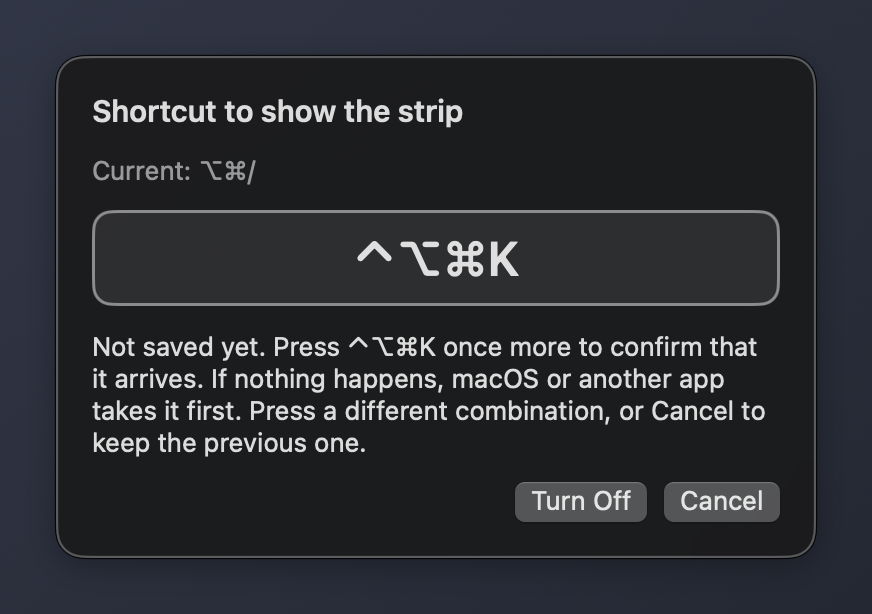
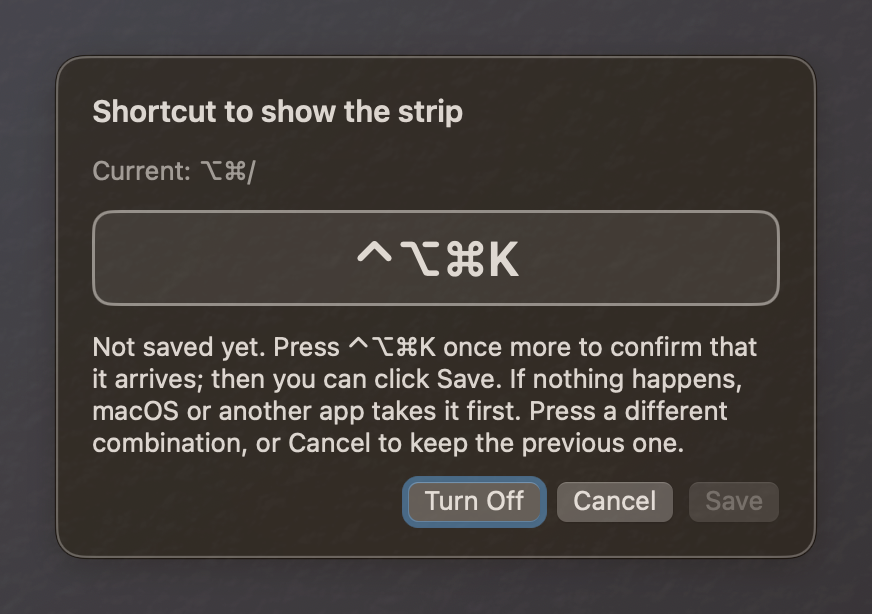
ショートカットの窓に「保存」を足し、メニューバーの項目が隠されているときに設定への案内を出す
届くことを確かめた後に「保存」を押して確定する。確かめている間は、修飾キーだけを押しても表示を書き換えない。

diff --git a/Sources/Hachibu/ShortcutRecorder.swift b/Sources/Hachibu/ShortcutRecorder.swift
@@ -5,7 +5,7 @@ import SwiftUI
 /// 「ショートカットを変更…」で開く小さな窓。押している修飾キーをその場で表示し、キーを押した瞬間に登録を試す。
 ///
 /// 登録できても押したときに届くとは限らない（macOSのショートカットはシステムが先に受け取る）。そのため
-/// macOSに割り当て済みの組み合わせは登録の前に弾き、登録後はもう一度押してもらって、届いたときに初めて保存する。
+/// macOSに割り当て済みの組み合わせは登録の前に弾き、登録後はもう一度押してもらって、届いたら「保存」を押せるようにする。
 /// 状態の判断はShortcutRecordingが持つ。この窓はキー入力を渡し、結果を表示するだけにする。
 /// キー入力を受けるためにこの窓だけは前面に出す。閉じたら元のアプリへ戻す。
 final class ShortcutRecorder {
@@ -39,6 +39,7 @@ final class ShortcutRecorder {
         model.live = ""
         model.onDisable = { [weak self] in self?.turnOff() }
         model.onCancel = { [weak self] in self?.cancel() }
+        model.onSave = { [weak self] in self?.save() }
         refresh()
 
         let hosting = NSHostingView(rootView: RecorderView(model: model))
@@ -79,6 +80,11 @@ final class ShortcutRecorder {
     /// 押している修飾キーだけを表示する（キーを押す前の途中経過）
     private func showHeld(_ flags: NSEvent.ModifierFlags) {
         guard !recording.isSaved else { return }
+        // 確かめている間は、確かめている組み合わせを出したままにする（別の組み合わせはキーを押した時点で切り替わる）
+        switch recording.phase {
+        case .verifying, .verified: return
+        default: break
+        }
         model.live = Shortcut(keyCode: 0, modifiers: modifiers(flags), keyLabel: "").display
     }
 
@@ -88,6 +94,11 @@ final class ShortcutRecorder {
         // 修飾キーなしのEscはキャンセルと同じ
         if event.keyCode == 53, held.isEmpty {
             cancel()
+            return
+        }
+        // 修飾キーなしのReturnは「保存」と同じ
+        if event.keyCode == 36, held.isEmpty, recording.canSave {
+            save()
             return
         }
         let keyCode = UInt32(event.keyCode)
@@ -100,7 +111,12 @@ final class ShortcutRecorder {
     }
 
     private func arrived() {
-        guard recording.arrived(center: hotKeys) else { return }
+        guard recording.arrived() else { return }
+        refresh()
+    }
+
+    private func save() {
+        guard recording.save(center: hotKeys) else { return }
         refresh()
         DispatchQueue.main.asyncAfter(deadline: .now() + Self.closeDelay) { [weak self] in
             self?.close()
@@ -141,11 +157,16 @@ final class ShortcutRecorder {
                 message += "\n" + s.recorderMenuProne
             }
             model.message = message
+        case .verified(let candidate):
+            model.live = candidate.display
+            model.result = .verified
+            model.message = s.recorderVerified(candidate.display)
         case .saved(let candidate):
             model.live = candidate.display
             model.result = .saved
-            model.message = s.recorderVerified(candidate.display)
+            model.message = s.recorderSaved(candidate.display)
         }
+        model.canSave = recording.canSave
     }
 
     /// macOSのキーボードショートカットの設定。読めなければnil（組み込みの一覧だけで判定する）
@@ -171,6 +192,7 @@ final class RecorderModel: ObservableObject {
         case waiting
         case rejected
         case verifying
+        case verified
         case saved
     }
 
@@ -182,6 +204,9 @@ final class RecorderModel: ObservableObject {
     @Published var result = Result.waiting
     var onDisable: () -> Void = {}
     var onCancel: () -> Void = {}
+    var onSave: () -> Void = {}
+    /// 届くことを確かめた後だけ「保存」を押せる
+    @Published var canSave = false
 }
 
 struct RecorderView: View {
@@ -217,6 +242,8 @@ struct RecorderView: View {
                 Button(L10n.current.recorderDisable, action: model.onDisable)
                 // どの段階でも、キャンセルは窓を開く前の組み合わせに戻す（確かめるまで保存しないため）
                 Button(L10n.current.recorderCancel, action: model.onCancel)
+                Button(L10n.current.recorderSave, action: model.onSave)
+                    .disabled(!model.canSave)
             }
             .font(.system(size: 13))
         }
@@ -241,13 +268,13 @@ struct RecorderView: View {
         case .waiting: return Color.white.opacity(0.18)
         case .verifying: return Color.white.opacity(0.45)
         case .rejected: return LevelStyle.background(.critical)!.color
-        case .saved: return Color(.sRGB, red: 80 / 255, green: 190 / 255, blue: 120 / 255, opacity: 1)
+        case .verified, .saved: return Color(.sRGB, red: 80 / 255, green: 190 / 255, blue: 120 / 255, opacity: 1)
         }
     }
 
     private var messageColor: Color {
         switch model.result {
-        case .waiting, .verifying, .saved: return .primary
+        case .waiting, .verifying, .verified, .saved: return .primary
         // 赤の札と同じ色は暗い面では文字として読みにくいので、明るめの赤にする
         case .rejected: return Color(.sRGB, red: 1, green: 0.55, blue: 0.5, opacity: 1)
         }

diff --git a/Sources/HachibuCore/Strings.swift b/Sources/HachibuCore/Strings.swift
@@ -52,6 +52,8 @@ public struct Strings {
     public let recorderReserved: (String, String) -> String
     public let recorderVerify: (String) -> String
     public let recorderVerified: (String) -> String
+    public let recorderSaved: (String) -> String
+    public let recorderSave: String
     public let recorderMenuProne: String
     /// macOSのショートカットの名前（com.apple.symbolichotkeysの番号から）
     public let systemShortcutName: (String) -> String
@@ -90,6 +92,8 @@ public struct Strings {
     public let resetOtherDay: String
 
     public let menuLanguage: String
+    /// メニューバーの項目がmacOSの設定で隠されているときに、帯のメニューに出す案内
+    public let menuBarHidden: String
     /// 引数はmacOSの言語から決まる言語の名前
     public let languageSystem: (String) -> String
 
@@ -128,8 +132,10 @@ public struct Strings {
         recorderRejected: "Add Command (⌘), Option (⌥), or Control (⌃) to the key.",
         recorderTaken: { "\($0) is already used by another app." },
         recorderReserved: { "\($0) is assigned to \"\($1)\" in macOS, so it would never reach Hachibu." },
-        recorderVerify: { "Not saved yet. Press \($0) once more to confirm that it arrives. If nothing happens, macOS or another app takes it first. Press a different combination, or Cancel to keep the previous one." },
-        recorderVerified: { "\($0) works and is saved." },
+        recorderVerify: { "Not saved yet. Press \($0) once more to confirm that it arrives; then you can click Save. If nothing happens, macOS or another app takes it first. Press a different combination, or Cancel to keep the previous one." },
+        recorderVerified: { "\($0) arrives. Click Save to use it, or Cancel to keep the previous one." },
+        recorderSaved: { "Saved \($0)." },
+        recorderSave: "Save",
         recorderMenuProne: "Shortcuts with only ⌘ often collide with app menu shortcuts. Adding ⌥ or ⌃ is safer.",
         systemShortcutName: { id in
             switch id {
@@ -193,6 +199,7 @@ public struct Strings {
         resetSameDay: "H:mm",
         resetOtherDay: "EEE M/d H:mm",
         menuLanguage: "Language",
+        menuBarHidden: "Menu bar item is hidden by macOS. Open Menu Bar settings…",
         languageSystem: { "Same as macOS (\($0))" },
         logShortcutCommitted: { "Set the shortcut to \($0) (confirmed that it arrives)" },
         logShortcutDisabled: "Turned off the shortcut",
@@ -229,8 +236,10 @@ public struct Strings {
         recorderRejected: "Command（⌘）・Option（⌥）・Control（⌃）のどれかと一緒に押してください",
         recorderTaken: { "\($0)は他のアプリが使っているため登録できません" },
         recorderReserved: { "\($0)はmacOSの「\($1)」に割り当てられているため、押してもHachibuに届きません" },
-        recorderVerify: { "まだ保存していません。届くかを確かめるため、もう一度\($0)を押してください。反応しない場合は、macOSか他のアプリが先に受け取っています。別の組み合わせを押すか、キャンセルで元の組み合わせに戻してください。" },
-        recorderVerified: { "\($0)が届くことを確かめて保存しました" },
+        recorderVerify: { "まだ保存していません。届くかを確かめるため、もう一度\($0)を押してください。届いたら「保存」を押せるようになります。反応しない場合は、macOSか他のアプリが先に受け取っています。別の組み合わせを押すか、キャンセルで元の組み合わせに戻してください。" },
+        recorderVerified: { "\($0)が届くことを確かめました。「保存」を押すと確定します。キャンセルすると元の組み合わせに戻ります。" },
+        recorderSaved: { "\($0)を保存しました" },
+        recorderSave: "保存",
         recorderMenuProne: "⌘だけの組み合わせは、アプリのメニューのショートカットと重なりやすいです。⌥か⌃を加えると安全です。",
         systemShortcutName: { id in
             switch id {
@@ -296,6 +305,7 @@ public struct Strings {
         resetSameDay: "H:mm",
         resetOtherDay: "M/d(E) H:mm",
         menuLanguage: "言語",
+        menuBarHidden: "メニューバーの項目がmacOSに隠されています。「メニューバー」の設定を開く…",
         languageSystem: { "macOSに合わせる（\($0)）" },
         logShortcutCommitted: { "ショートカットを\($0)にしました（届くことを確認済み）" },
         logShortcutDisabled: "ショートカットを無効にしました",

diff --git a/Tests/HachibuCoreTests/ShortcutRecordingTests.swift b/Tests/HachibuCoreTests/ShortcutRecordingTests.swift
@@ -82,7 +82,7 @@ func freshDefaults() -> SettingsStore {
         #expect(settings.load() == nil)
     }
 
-    @Test func nothingIsSavedUntilTheShortcutArrives() {
+    @Test func nothingIsSavedUntilSaveIsClicked() {
         let (center, settings, _) = opened(with: a)
         var rec = ShortcutRecording()
         rec.press(b, reservedID: nil, center: center)
@@ -90,11 +90,44 @@ func freshDefaults() -> SettingsStore {
         #expect(settings.load() == a)
         #expect(center.shortcut == a)
 
-        let saved = rec.arrived(center: center)
+        // 「保存」は、届くことを確かめるまで効かない
+        let early = rec.save(center: center)
+        #expect(!early)
+        #expect(settings.load() == a)
+
+        let arrived = rec.arrived()
+        #expect(arrived)
+        #expect(rec.phase == .verified(b))
+        #expect(rec.canSave)
+        // 届いただけでは保存しない
+        #expect(settings.load() == a)
+
+        let saved = rec.save(center: center)
         #expect(saved)
         #expect(rec.phase == .saved(b))
         #expect(settings.load() == b)
         #expect(center.shortcut == b)
+    }
+
+    @Test func cancelAfterVerifyingRestoresTheOriginal() {
+        let (center, settings, registrar) = opened(with: a)
+        var rec = ShortcutRecording()
+        rec.press(b, reservedID: nil, center: center)
+        _ = rec.arrived()
+        rec.cancel(center: center)
+        #expect(settings.load() == a)
+        #expect(registrar.registered == a)
+    }
+
+    @Test func aDifferentComboAfterVerifyingNeedsVerifyingAgain() {
+        let (center, settings, _) = opened(with: a)
+        var rec = ShortcutRecording()
+        rec.press(b, reservedID: nil, center: center)
+        _ = rec.arrived()
+        rec.press(d, reservedID: nil, center: center)
+        #expect(rec.phase == .verifying(d))
+        #expect(!rec.canSave)
+        #expect(settings.load() == a)
     }
 
     @Test func aComboTakenByAnotherAppReleasesThePreviousTrial() {
@@ -114,7 +147,9 @@ func freshDefaults() -> SettingsStore {
         let (center, settings, _) = opened(with: a)
         var rec = ShortcutRecording()
         rec.press(reservedC, reservedID: "60", center: center)
-        let saved = rec.arrived(center: center)
+        let arrived = rec.arrived()
+        #expect(!arrived)
+        let saved = rec.save(center: center)
         #expect(!saved)
         #expect(settings.load() == a)
     }
@@ -123,7 +158,8 @@ func freshDefaults() -> SettingsStore {
         let (center, settings, _) = opened(with: a)
         var rec = ShortcutRecording()
         rec.press(b, reservedID: nil, center: center)
-        _ = rec.arrived(center: center)
+        _ = rec.arrived()
+        _ = rec.save(center: center)
         rec.press(d, reservedID: nil, center: center)
         #expect(rec.phase == .saved(b))
         #expect(settings.load() == b)

diff --git a/Sources/HachibuCore/ShortcutRecording.swift b/Sources/HachibuCore/ShortcutRecording.swift
@@ -2,7 +2,7 @@ import Foundation
 
 /// 「ショートカットを変更…」の窓の状態。
 ///
-/// 押された組み合わせは登録を試すだけで、保存しない。登録したショートカットとしてもう一度届いたときに初めて保存する。
+/// 押された組み合わせは登録を試すだけで、保存しない。登録したショートカットとしてもう一度届いたら「保存」を押せるようになり、押されたときに保存する。
 /// そのため取り消し（キャンセル、Esc）は、どの段階でも窓を開く前の状態に戻る。
 public struct ShortcutRecording: Equatable {
     public enum Rejection: Equatable {
@@ -19,7 +19,9 @@ public struct ShortcutRecording: Equatable {
         case rejected(Shortcut, Rejection)
         /// 登録した。保存はまだで、もう一度押されるのを待っている
         case verifying(Shortcut)
-        /// 届いたので保存した
+        /// 届くことを確かめた。「保存」が押されるのを待っている
+        case verified(Shortcut)
+        /// 保存した
         case saved(Shortcut)
     }
 
@@ -55,10 +57,24 @@ public struct ShortcutRecording: Equatable {
         phase = .rejected(candidate, rejection)
     }
 
-    /// 登録したショートカットとして届いた。確かめている組み合わせなら保存する
-    /// - Returns: 保存したらtrue（窓を閉じてよい）
-    public mutating func arrived(center: HotKeyCenter) -> Bool {
+    /// 「保存」を押せる状態か
+    public var canSave: Bool {
+        if case .verified = phase { return true }
+        return false
+    }
+
+    /// 登録したショートカットとして届いた。確かめている組み合わせなら「保存」を押せる状態にする（まだ保存しない）
+    /// - Returns: 状態が変わったらtrue
+    public mutating func arrived() -> Bool {
         guard case .verifying(let candidate) = phase else { return false }
+        phase = .verified(candidate)
+        return true
+    }
+
+    /// 「保存」が押された。届くことを確かめた組み合わせだけを保存する
+    /// - Returns: 保存したらtrue（窓を閉じてよい）
+    public mutating func save(center: HotKeyCenter) -> Bool {
+        guard case .verified(let candidate) = phase else { return false }
         center.commit(candidate)
         phase = .saved(candidate)
         return true

diff --git a/Sources/Hachibu/MenuBuilder.swift b/Sources/Hachibu/MenuBuilder.swift
@@ -19,6 +19,10 @@ final class MenuBuilder {
     }
 
     /// 帯の右クリック。表示の切り替えをその場で行えるよう、モードは入れ子にせず並べる
+    /// メニューバーの項目が隠されているかの問い合わせ先（StatusItemControllerは後から作られる）
+    var menuBarItemIsHidden: () -> Bool = { false }
+    private static let menuBarSettingsURL = URL(string: "x-apple.systempreferences:com.apple.ControlCenter-Settings.extension")!
+
     func contextMenu() -> NSMenu {
         let menu = NSMenu()
         usageItems().forEach(menu.addItem)
@@ -35,6 +39,12 @@ final class MenuBuilder {
         menu.addItem(languageMenuItem())
         loginItems().forEach(menu.addItem)
         menu.addItem(openLogItem())
+        if menuBarItemIsHidden() {
+            menu.addItem(.separator())
+            menu.addItem(choice(L10n.current.menuBarHidden, selected: false) {
+                NSWorkspace.shared.open(Self.menuBarSettingsURL)
+            })
+        }
         menu.addItem(.separator())
         menu.addItem(quitItem())
         return menu

diff --git a/Sources/Hachibu/StatusItemController.swift b/Sources/Hachibu/StatusItemController.swift
@@ -26,6 +26,13 @@ final class StatusItemController: NSObject, NSMenuDelegate {
         refreshTitle()
     }
 
+    /// macOSの「メニューバー」の設定で許可が切られていると、項目はどの画面にも属さない位置に置かれる。
+    /// 画面の下端に数ptだけ掛かるので、枠の重なりでは判定できない
+    var isHiddenBySystem: Bool {
+        guard let window = item.button?.window else { return false }
+        return window.screen == nil
+    }
+
     /// 帯の中身が変わるたびに呼ぶ
     func refreshTitle() {
         guard let button = item.button else { return }

diff --git a/Sources/Hachibu/AppDelegate.swift b/Sources/Hachibu/AppDelegate.swift
@@ -40,6 +40,7 @@ final class AppDelegate: NSObject, NSApplicationDelegate {
         recorder = ShortcutRecorder(hotKeys: hotKeys)
         builder = MenuBuilder(source: source, strip: strip, hotKeys: hotKeys, recorder: recorder, consent: consent)
         statusItem = StatusItemController(source: source, strip: strip, builder: builder)
+        builder.menuBarItemIsHidden = { [weak self] in self?.statusItem.isHiddenBySystem ?? false }
 
         strip.onChange = { [weak self] in self?.statusItem.refreshTitle() }
         strip.usageText = { [weak source] in

diff --git a/README.md b/README.md
@@ -54,7 +54,9 @@ Right-click the strip to switch modes, opacity, and color thresholds. Hovering o
 
 ![Right-click menu](docs/images/menu-context.png)
 
-You can also show usage in the menu bar, and summon the strip with a keyboard shortcut (⌥⌘/ by default). When you record a new shortcut, Hachibu rejects combinations that macOS already uses, and saves it only after you press it once more and it arrives.
+You can also show usage in the menu bar, and summon the strip with a keyboard shortcut (⌥⌘/ by default). When you record a new shortcut, Hachibu rejects combinations that macOS already uses. Press the new combination once more to confirm that it arrives, then click Save.
+
+If the menu bar item does not appear, macOS is hiding it: turn Hachibu on in System Settings > Menu Bar. The strip's right-click menu shows a shortcut to that setting when this happens, and everything in the menu bar item is also in that menu.
 
 The interface follows your macOS language: Japanese if it comes first in your preferred languages, English otherwise. You can also pick English or Japanese from Language in the menu. The action log is written in the language shown at the time.
 
@@ -237,7 +239,9 @@ Hachibuだけで動きます。ほかの道具は要りません。
 
 ![右クリックメニュー](docs/images/ja-menu-context.png)
 
-メニューバーに使用率を出したり、ショートカット（既定は⌥⌘/）で帯を呼び出したりもできます。ショートカットを登録するときは、macOSが使っている組み合わせを弾き、もう一度押して届いたときだけ保存します。
+メニューバーに使用率を出したり、ショートカット（既定は⌥⌘/）で帯を呼び出したりもできます。ショートカットを登録するときは、macOSが使っている組み合わせを弾きます。新しい組み合わせをもう一度押して届くことを確かめてから、「保存」を押します。
+
+メニューバーに項目が出ないときは、macOSが隠しています。「システム設定」＞「メニューバー」でHachibuをオンにしてください。このとき帯の右クリックメニューに、その設定を開く項目が出ます。メニューバーの項目でできることは、すべて帯の右クリックメニューからもできます。
 
 画面の文言は、macOSの言語設定に合わせて日本語か英語になります。メニューの「言語」から英語か日本語を選ぶこともできます。操作ログは、書いた時点の画面の言語で残ります。
 
